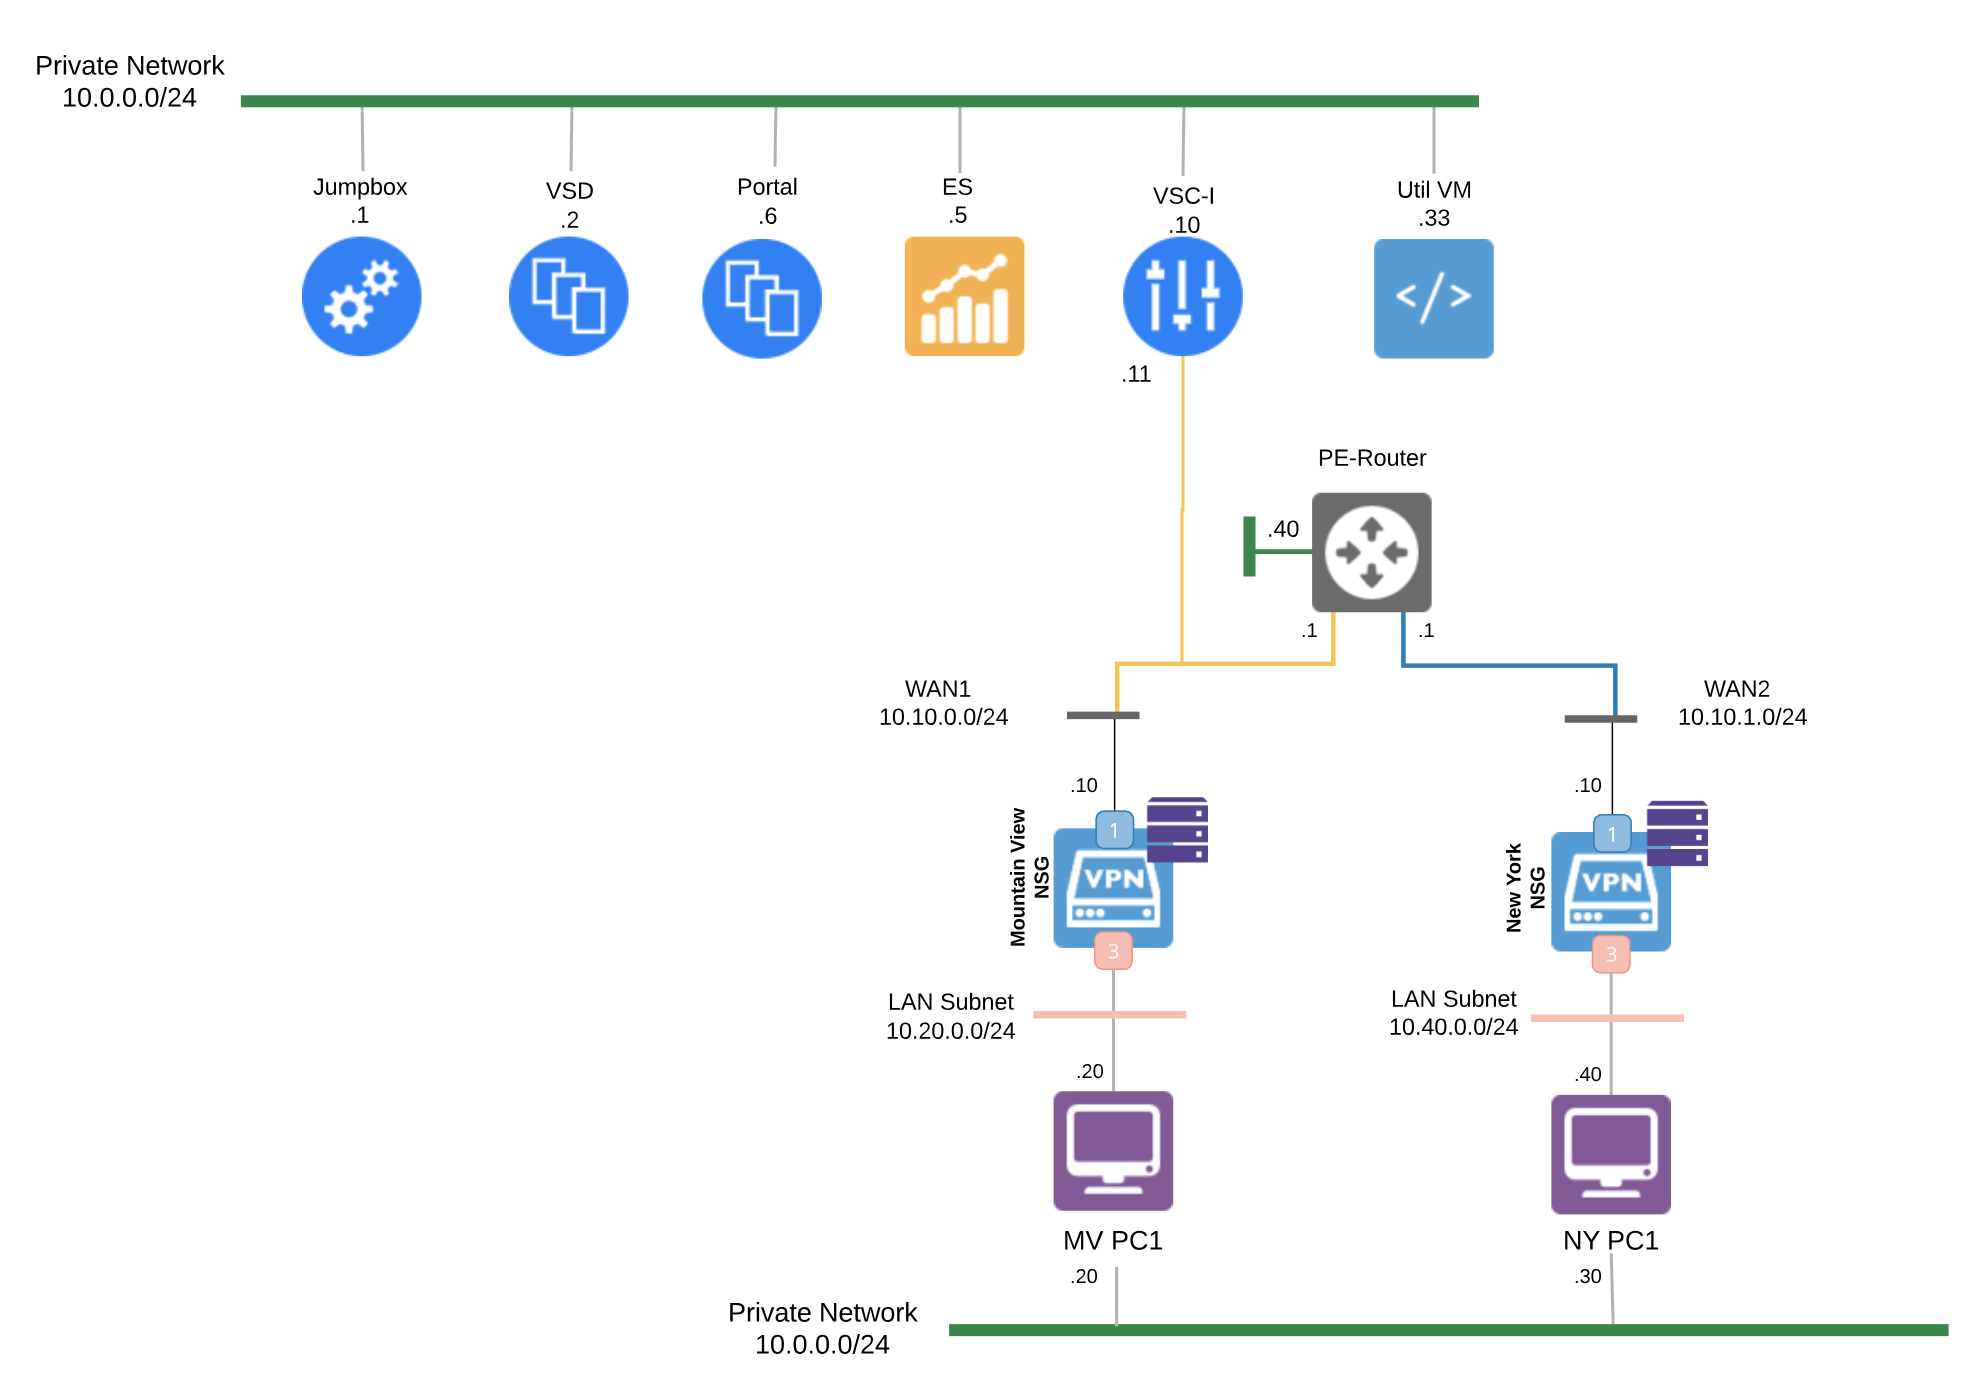
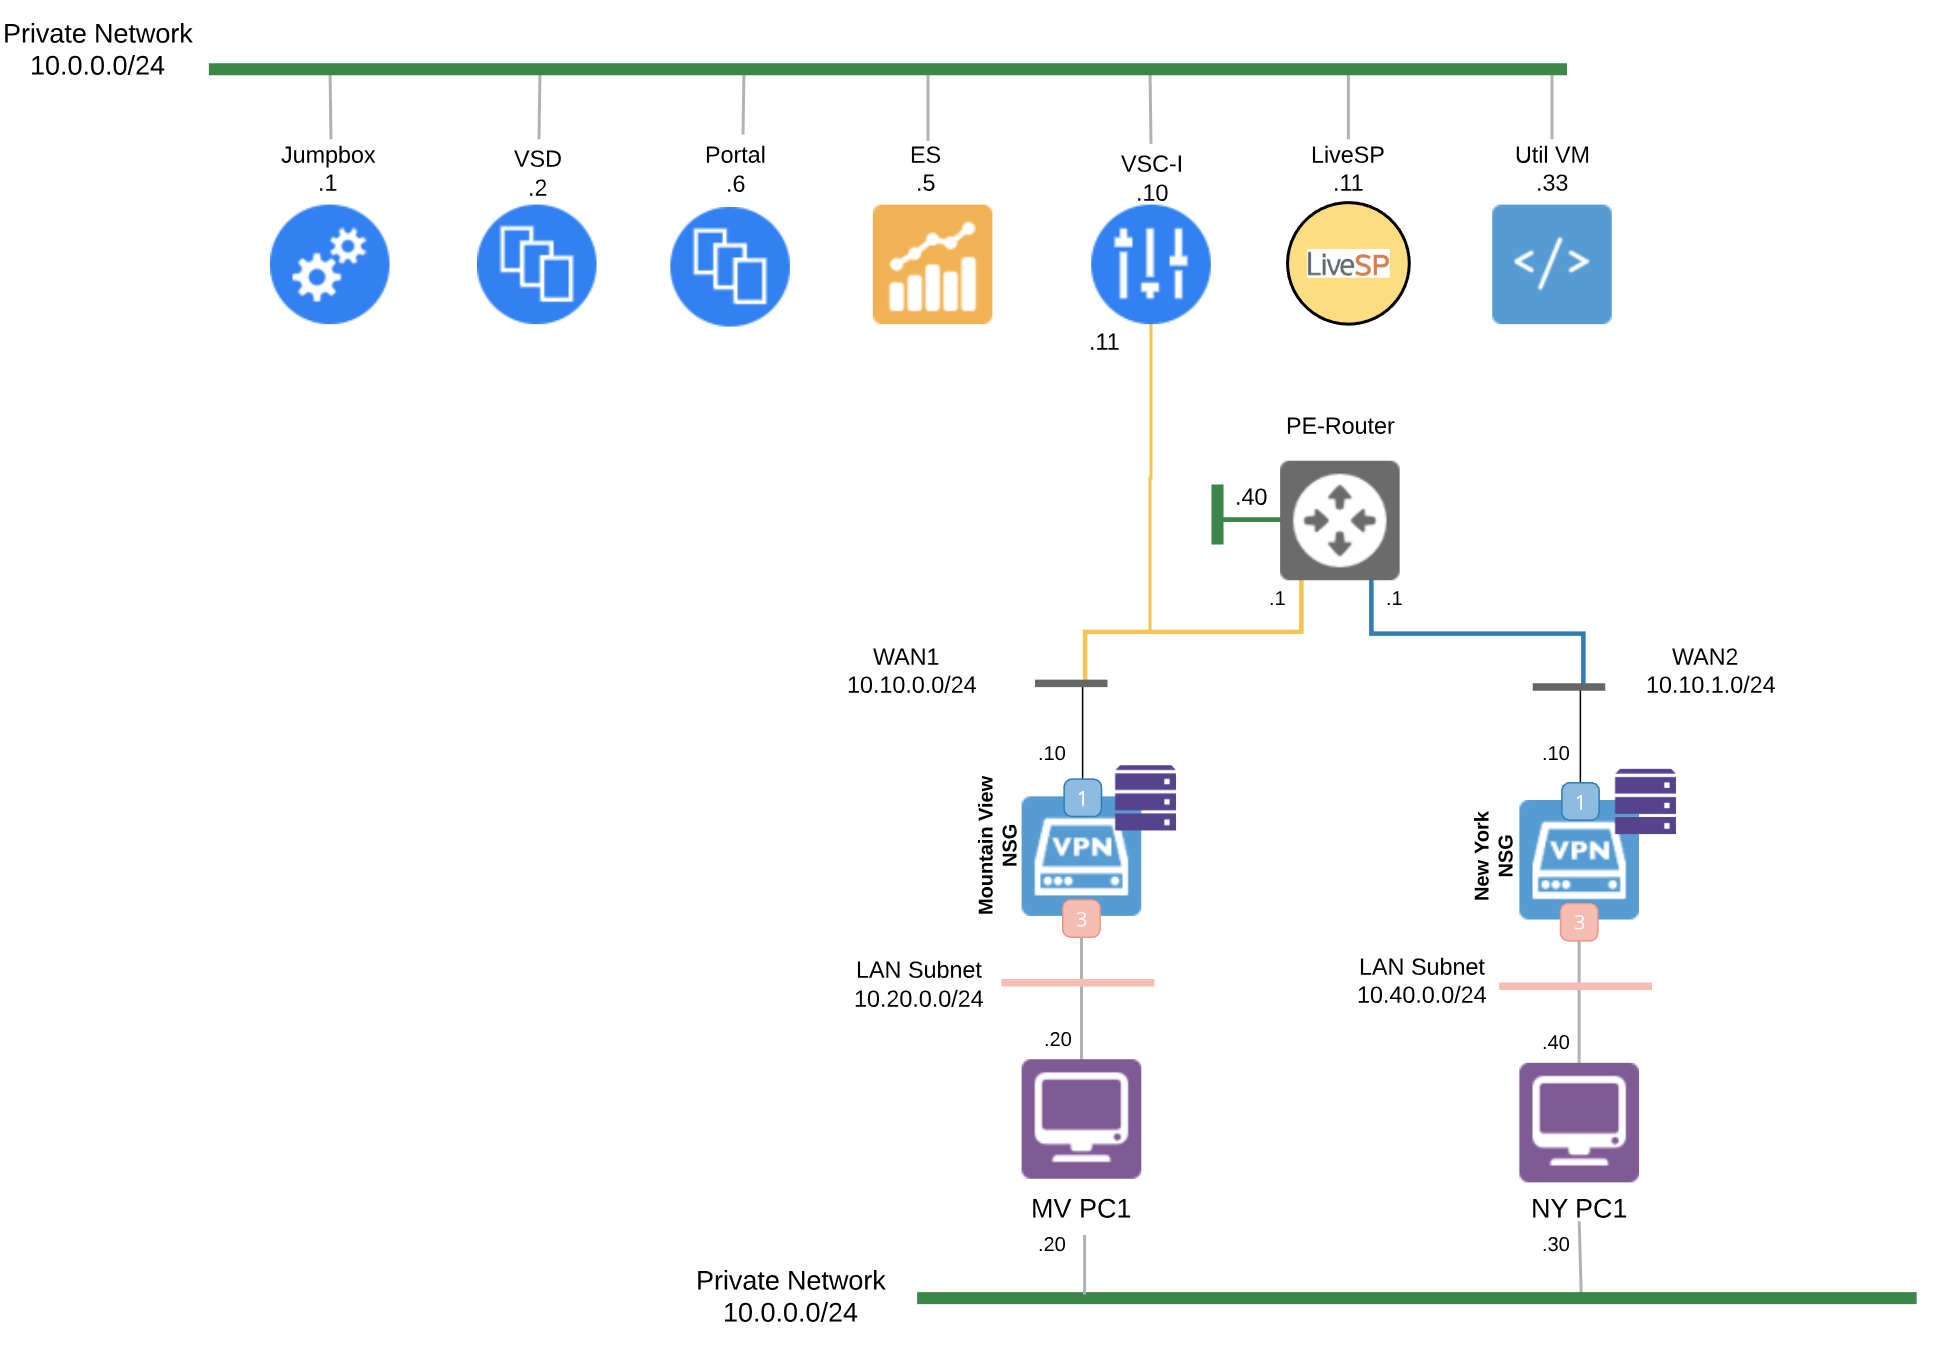
Update image file.

diff --git a/0820-VNS-LiveAction/README.md b/0820-VNS-LiveAction/README.md
@@ -1,7 +1,7 @@
 # 0820-VNS-LiveAction
 
 * **version:** 1.0.0
-* **tags:** Monitoring
+* **tags:** LiveSP
 * **requirements**: Nuage 5.3.3+, Docker on local Machine, CATS container image available on local machine
 * **designer**: Arun Poonia
 * **validation**: Outside of NuageX lab
@@ -23,7 +23,7 @@ The Mountain View site and New York branch offices are equipped with the [Branch
 
 # Use cases
 
-Provide a generic VNS monitoring platform to allow two NSG-Vs and PC behind each NSG.
+Provide a generic VNS and liveSP platform to allow two NSG-Vs and PC behind each NSG.
 
 # Lab Deployment 
 
@@ -47,7 +47,7 @@ nuxctl create-lab -c my_creds.yml -l  nuxctl_0820-vns-live-action.yml --wait
 
 ID                        Name                    Status   Expires                 External IP      Password
 ------------------------  ----------------------  -------  ----------------------  ---------------  ----------------
-<lab_id>                  vns-monitoring-labs     started  2019-02-23 00:31 (UTC)  XXXXXX           XXXXX
+<lab_id>                  vns-live-action         started  2019-02-23 00:31 (UTC)  XXXXXX           XXXXX
 ```
 6. Note down `External IP` and `Password` which you will need in `Variables File` section. 
 
@@ -73,7 +73,7 @@ When the lab deployment is finished, proceed with automatic lab configuration.
     ```
 
 3. Run your lab configuration using below command: 
-   - Change your working directory to `0830-VNS-Monitoring-Generic` folder. 
+   - Change your working directory to `0820-VNS-LiveAction` folder. 
    - You will be mounting your `private_key` path and current directory where `cats` scripts are stored.
    - Run below command to complete lab cofigruation. 
 
